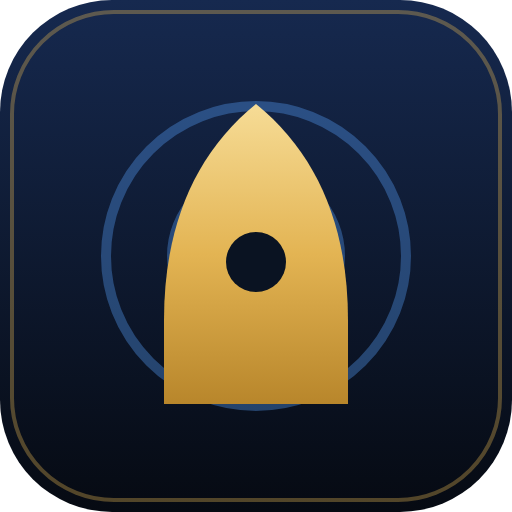
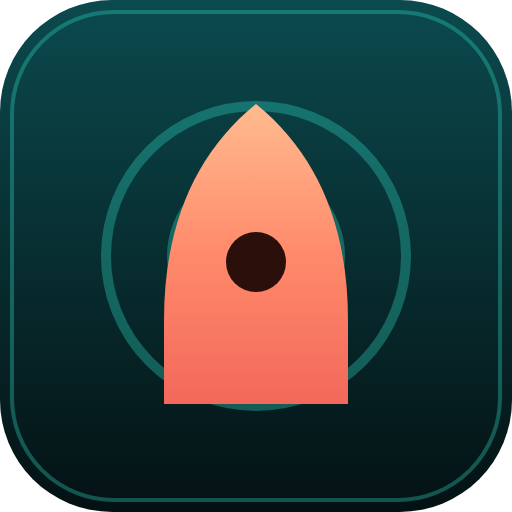
Tidewater palette; smooth rate of turn
- Palette: deep sea-teal canvas with complementary coral for actions,
  aqua breadcrumbs/skyhook marker; icons re-rendered
- Rate of turn: the readout and logged hdgRate were a single raw gyro
  sample (~16 ms), so vibration in a car or hull mount made them jump.
  Now low-pass filtered (default 0.5 s, configurable in Settings); the
  heading filter still integrates every raw sample. Raw rate stays in
  gyroRate. In simulation 2.0 deg/s rms vibration -> 0.26 deg/s.
- v0.3.0

Claude-Session: https://claude.ai/code/session_01GEVfYgxFGNJATBxX8JKbRs

diff --git a/css/app.css b/css/app.css
@@ -4,16 +4,16 @@
 
 /* ------------------------------------------------------------------ tokens */
 :root {
-  /* Brand: "Admiralty" — blue-black canvas, gold for intent (blue/gold are complementary).
-     Gold is dark-to-light; the gradient is the only place it appears in bulk. */
-  --brand-1: #b8862b; /* deep gold */
-  --brand-2: #e3b453; /* gold */
-  --brand-3: #f6dc96; /* champagne */
-  --on-brand: #0a1322; /* navy ink on gold (white fails contrast) */
-  --success: #3ddc97;
-  --warning: #ff9f43;
-  --danger: #ff5c6c;
-  --info: #5aa2ff;
+  /* Brand: "Tidewater" — deep sea-teal canvas with coral for intent. Teal and coral sit
+     opposite each other on the wheel; coral appears only where you act. */
+  --brand-1: #f2685a; /* coral */
+  --brand-2: #ff8a6b; /* salmon */
+  --brand-3: #ffbb8f; /* apricot */
+  --on-brand: #2a0f0b; /* dark ink on coral (white fails contrast) */
+  --success: #4ade80;
+  --warning: #facc15;
+  --danger: #ff3d6e;
+  --info: #38bdf8;
   --aurora: linear-gradient(110deg, var(--brand-1), var(--brand-2) 55%, var(--brand-3));
 
   --ease-emph: cubic-bezier(0.2, 0, 0, 1);
@@ -38,77 +38,77 @@
   --safe-b: env(safe-area-inset-bottom, 0px);
   --safe-t: env(safe-area-inset-top, 0px);
 
-  /* Dark "Deep Navy" (default) */
+  /* Dark "Deep Water" (default) */
   color-scheme: dark;
-  --canvas: #060a12;
-  --surface-1: #0b1220;
-  --surface-2: #111a2b;
-  --surface-3: #1a2539;
-  --glass: rgba(12, 20, 34, 0.72);
-  --glass-strong: rgba(15, 24, 40, 0.92);
+  --canvas: #041113;
+  --surface-1: #0a1a1d;
+  --surface-2: #0f2428;
+  --surface-3: #173236;
+  --glass: rgba(9, 27, 30, 0.72);
+  --glass-strong: rgba(12, 33, 37, 0.92);
   --hairline: rgba(255, 255, 255, 0.08);
-  --edge-hi: rgba(255, 236, 190, 0.18);
-  --text: #f2f0e9;
-  --text-2: #a8b2c6;
-  --text-3: #66738c;
-  --glow-1: rgba(31, 79, 191, 0.5);
-  --glow-2: rgba(18, 52, 128, 0.55);
-  --glow-3: rgba(200, 150, 46, 0.22);
-  --primary: #e3b453;
-  --grid: rgba(150, 170, 205, 0.13);
-  --vessel: #f2f0e9;
-  --trail: #5aa2ff;
-  --mark: #7cc4ff;
+  --edge-hi: rgba(200, 255, 245, 0.16);
+  --text: #eef6f4;
+  --text-2: #9cb9b6;
+  --text-3: #5e7d7a;
+  --glow-1: rgba(13, 148, 136, 0.45);
+  --glow-2: rgba(14, 94, 112, 0.55);
+  --glow-3: rgba(242, 104, 90, 0.2);
+  --primary: #ff8a6b;
+  --grid: rgba(156, 205, 200, 0.12);
+  --vessel: #eef6f4;
+  --trail: #2dd4bf;
+  --mark: #5eead4;
   --field: rgba(255, 255, 255, 0.05);
 }
 
 @media (prefers-color-scheme: light) {
   :root:not([data-theme='dark']) {
     color-scheme: light;
-    --canvas: #f3f5f9;
+    --canvas: #f1f7f6;
     --surface-1: #ffffff;
-    --surface-2: #e9eef6;
-    --surface-3: #dbe3ef;
-    --glass: rgba(255, 255, 255, 0.78);
+    --surface-2: #e3f0ee;
+    --surface-3: #d2e5e2;
+    --glass: rgba(255, 255, 255, 0.8);
     --glass-strong: rgba(255, 255, 255, 0.95);
-    --hairline: rgba(10, 19, 34, 0.09);
+    --hairline: rgba(6, 32, 35, 0.09);
     --edge-hi: rgba(255, 255, 255, 0.9);
-    --text: #0b1424;
-    --text-2: #4a5873;
-    --text-3: #8b96aa;
-    --glow-1: rgba(170, 196, 245, 0.6);
-    --glow-2: rgba(150, 180, 238, 0.55);
-    --glow-3: rgba(243, 220, 160, 0.6);
-    --primary: #8a5e0b;
-    --grid: rgba(74, 88, 115, 0.15);
-    --vessel: #0b1424;
-    --trail: #1f5fd1;
-    --mark: #1f5fd1;
-    --field: rgba(10, 19, 34, 0.04);
+    --text: #072226;
+    --text-2: #3f5e5d;
+    --text-3: #86a19f;
+    --glow-1: rgba(153, 227, 216, 0.6);
+    --glow-2: rgba(178, 220, 232, 0.6);
+    --glow-3: rgba(255, 205, 186, 0.6);
+    --primary: #c2412f;
+    --grid: rgba(63, 94, 93, 0.15);
+    --vessel: #072226;
+    --trail: #0f766e;
+    --mark: #0e7490;
+    --field: rgba(6, 32, 35, 0.04);
   }
 }
 :root[data-theme='light'] {
   color-scheme: light;
-  --canvas: #f3f5f9;
+  --canvas: #f1f7f6;
   --surface-1: #ffffff;
-  --surface-2: #e9eef6;
-  --surface-3: #dbe3ef;
-  --glass: rgba(255, 255, 255, 0.78);
+  --surface-2: #e3f0ee;
+  --surface-3: #d2e5e2;
+  --glass: rgba(255, 255, 255, 0.8);
   --glass-strong: rgba(255, 255, 255, 0.95);
-  --hairline: rgba(10, 19, 34, 0.09);
+  --hairline: rgba(6, 32, 35, 0.09);
   --edge-hi: rgba(255, 255, 255, 0.9);
-  --text: #0b1424;
-  --text-2: #4a5873;
-  --text-3: #8b96aa;
-  --glow-1: rgba(170, 196, 245, 0.6);
-  --glow-2: rgba(150, 180, 238, 0.55);
-  --glow-3: rgba(243, 220, 160, 0.6);
-  --primary: #8a5e0b;
-  --grid: rgba(74, 88, 115, 0.15);
-  --vessel: #0b1424;
-  --trail: #1f5fd1;
-  --mark: #1f5fd1;
-  --field: rgba(10, 19, 34, 0.04);
+  --text: #072226;
+  --text-2: #3f5e5d;
+  --text-3: #86a19f;
+  --glow-1: rgba(153, 227, 216, 0.6);
+  --glow-2: rgba(178, 220, 232, 0.6);
+  --glow-3: rgba(255, 205, 186, 0.6);
+  --primary: #c2412f;
+  --grid: rgba(63, 94, 93, 0.15);
+  --vessel: #072226;
+  --trail: #0f766e;
+  --mark: #0e7490;
+  --field: rgba(6, 32, 35, 0.04);
 }
 
 /* ------------------------------------------------------------------ base */

diff --git a/js/fusion.js b/js/fusion.js
@@ -30,6 +30,7 @@ export class Fusion extends EventTarget {
     this.compassT = 0;
     this.gyroT = 0;
     this.gyroRate = null; // last raw heading rate from the gyro, deg/s
+    this.rateLP = null; // low-pass filtered, bias-corrected rate of turn, deg/s
     this.headingSource = 'none'; // compass | cog | gyro | none
     this.iosAlphaOffset = null; // iOS: alpha is not north-referenced; offset from compass
     this.skyhook = null; // { lat, lon, x, y, t, acc }
@@ -82,7 +83,7 @@ export class Fusion extends EventTarget {
     if (!m.n || cog === null || !(fix.speed > DEV_MIN_SPEED) || !(fix.acc < 20)) return;
     if (fix.t - this.compassT > 1000) return;
     if (prev === null || Math.abs(wrap180(cog - prev)) > 5) return; // course changing
-    if (this.hkf.initialized && Math.abs(this.hkf.rate) > DEV_MAX_TURN) return;
+    if (this.rateLP !== null && Math.abs(this.rateLP) > DEV_MAX_TURN) return;
     const mag = wrap360((Math.atan2(m.s, m.c) * 180) / Math.PI);
     const offsets = this.settings.get('declination') + this.settings.get('headingOffset');
     this.devResidual = wrap180(cog - offsets - mag - this.dev.correction(mag));
@@ -136,9 +137,17 @@ export class Fusion extends EventTarget {
     let rate = headingRateFromGyro(m.rot, this.att.beta, this.att.gamma);
     if (rate === null) return;
     if (this.settings.get('invertGyro')) rate = -rate;
+    const dt = this.gyroT ? (m.t - this.gyroT) / 1000 : 0;
     this.gyroRate = rate;
     this.gyroT = m.t;
+    // The filter integrates every raw sample (integration averages vibration out). The rate
+    // of turn we report is low-passed: one raw sample at 60 Hz mostly shows engine/hull
+    // vibration, not the vessel turning.
     this.hkf.propagate(m.t, rate);
+    const corrected = rate - (this.hkf.initialized ? this.hkf.bias : 0);
+    const tau = Math.max(0.05, this.settings.get('rateSmoothing'));
+    if (this.rateLP === null || !(dt > 0) || dt > 1) this.rateLP = corrected;
+    else this.rateLP += (1 - Math.exp(-dt / tau)) * (corrected - this.rateLP);
   }
 
   _propagate(t) {
@@ -206,7 +215,7 @@ export class Fusion extends EventTarget {
       hdg,
       hdgMag: hdg === null ? null : wrap360(hdg - this.settings.get('declination')),
       hdgSigma: this.hkf.initialized ? this.hkf.sigma : null,
-      hdgRate: this.hkf.initialized ? this.hkf.rate : null,
+      hdgRate: !this.hkf.initialized ? null : t - this.gyroT < GYRO_STALE && this.rateLP !== null ? this.rateLP : this.hkf.rate,
       hdgSrc: this.hkf.initialized ? (t - this.compassT < COMPASS_STALE ? 'compass' : this.headingSource) : 'none',
       gyroBias: this.hkf.initialized ? this.hkf.bias : null,
       gyroRate: t - this.gyroT < GYRO_STALE ? this.gyroRate : null,

diff --git a/index.html b/index.html
@@ -5,7 +5,7 @@
     <meta name="viewport" content="width=device-width, initial-scale=1, maximum-scale=1, viewport-fit=cover" />
     <title>GNSS Log</title>
     <meta name="description" content="Vessel position and heading logger with skyhook station-keeping view." />
-    <meta name="theme-color" content="#060A12" />
+    <meta name="theme-color" content="#041113" />
     <link rel="manifest" href="manifest.webmanifest" />
     <link rel="icon" href="icons/icon.svg" type="image/svg+xml" />
     <link rel="icon" href="icons/icon-192.png" sizes="192x192" type="image/png" />
@@ -183,6 +183,10 @@
           <label class="row">
             <span>Compass noise <small>° 1σ for the filter</small></span>
             <input class="field num" type="number" min="1" max="45" step="0.5" data-setting="compassSigma" />
+          </label>
+          <label class="row">
+            <span>Turn rate smoothing <small>seconds; higher = steadier, slower</small></span>
+            <input class="field num" type="number" min="0.05" max="5" step="0.05" data-setting="rateSmoothing" />
           </label>
           <div class="row">
             <span>Invert gyro yaw <small>only if heading lags turns</small></span>

diff --git a/js/app.js b/js/app.js
@@ -11,7 +11,7 @@ import { Visualizer, fmtDist } from './visualizer.js';
 import { exportSession } from './export.js';
 import { LocalFrame, wrap180, wrap360, haversine } from './geo.js';
 
-const VERSION = '0.2.0';
+const VERSION = '0.3.0';
 window.GNSSLOG_VERSION = VERSION;
 
 const $ = (sel, root = document) => root.querySelector(sel);
@@ -817,7 +817,7 @@ function applyTheme() {
   if (t === 'light' || t === 'dark') document.documentElement.dataset.theme = t;
   else delete document.documentElement.dataset.theme;
   const dark = t === 'dark' || (t === 'system' && matchMedia('(prefers-color-scheme: dark)').matches);
-  $('meta[name="theme-color"]').content = dark ? '#060A12' : '#F3F5F9';
+  $('meta[name="theme-color"]').content = dark ? '#041113' : '#F1F7F6';
   viz.refreshTheme();
   pb.viz?.refreshTheme();
 }

diff --git a/js/settings.js b/js/settings.js
@@ -10,6 +10,7 @@ export const DEFAULTS = {
   declination: 0, // deg, East positive: true = magnetic + declination
   compassSigma: 6, // deg, 1-sigma magnetometer noise used by the heading filter
   invertGyro: false,
+  rateSmoothing: 0.5, // s, time constant of the rate-of-turn low-pass filter
   autoDeviation: true, // learn compass deviation (magnets, steel) from GNSS course
   orientUp: 'north', // north | heading (visualiser)
   trailMinutes: 10,

diff --git a/sw.js b/sw.js
@@ -1,7 +1,7 @@
 // Service worker: offline app shell (cache-first, versioned) + runtime cache for fonts.
 // Uploads (POST) and any other cross-origin request are never intercepted.
 
-const VERSION = 'gnsslog-v0.2.0';
+const VERSION = 'gnsslog-v0.3.0';
 const SHELL = [
   './',
   'index.html',

diff --git a/README.md b/README.md
@@ -6,19 +6,19 @@ case on the device, uploads it to your cloud endpoint whenever there is a connec
 top-down plot with breadcrumbs and a **Skyhook** station-keeping view.
 
 UI follows the "Aurora Ink" design rules (dark/light/system themes, glass surfaces, gradient
-only on the primary actions) remixed to an **"Admiralty" blue-black and gold** palette: navy
-canvas and glows, with complementary gold reserved for the things you act on (record, selected
-tab, switches, the vessel). The skyhook marker and breadcrumbs use blue so they read against the
-gold vessel.
+only on the primary actions) remixed to a **"Tidewater" sea-teal and coral** palette: teal and coral are complementary, so
+the deep-teal canvas stays calm while coral marks the things you act on (record, selected tab,
+switches, the vessel). Breadcrumbs and the skyhook marker are aqua so they read against the
+coral vessel.
 
 | Token | Dark | Light |
 |---|---|---|
-| Canvas | `#060A12` | `#F3F5F9` |
-| Surfaces | `#0B1220` / `#111A2B` / `#1A2539` | `#FFFFFF` / `#E9EEF6` / `#DBE3EF` |
-| Text | `#F2F0E9` / `#A8B2C6` / `#66738C` | `#0B1424` / `#4A5873` / `#8B96AA` |
-| Gold gradient | `#B8862B` → `#E3B453` → `#F6DC96` (navy ink `#0A1322` on top) | same |
-| Blue accents (trail, skyhook) | `#5AA2FF` / `#7CC4FF` | `#1F5FD1` |
-| Status | success `#3DDC97`, warning `#FF9F43`, error `#FF5C6C` | same |
+| Canvas | `#041113` | `#F1F7F6` |
+| Surfaces | `#0A1A1D` / `#0F2428` / `#173236` | `#FFFFFF` / `#E3F0EE` / `#D2E5E2` |
+| Text | `#EEF6F4` / `#9CB9B6` / `#5E7D7A` | `#072226` / `#3F5E5D` / `#86A19F` |
+| Coral gradient | `#F2685A` → `#FF8A6B` → `#FFBB8F` (ink `#2A0F0B` on top) | same; accent text `#C2412F` |
+| Aqua (trail, skyhook) | `#2DD4BF` / `#5EEAD4` | `#0F766E` / `#0E7490` |
+| Status | success `#4ADE80`, warning `#FACC15`, error `#FF3D6E` | same |
 
 All colours are tokens at the top of `css/app.css`; the canvas plot reads them at runtime.
 
@@ -126,7 +126,7 @@ and serves `GET /sessions` and `GET /sessions/<id>.csv`. Set `RECEIVER_TOKEN` to
 | `vx`, `vy` | Fused velocity East/North (m/s) |
 | `sog`, `cog` | Fused speed (m/s) and course over ground (°T) |
 | `hdg`, `hdgMag` | Filtered heading, true and magnetic (°) |
-| `hdgRate` | Bias-corrected rate of turn (°/s, + = to starboard) |
+| `hdgRate` | Bias-corrected rate of turn, low-pass filtered (°/s, + = to starboard; time constant in Settings) |
 | `hdgSigma`, `hdgSrc` | Heading 1σ (°) and source (`compass`, `cog`, `none`) |
 | `gyroRate`, `gyroBias` | Raw gyro yaw rate and estimated bias (°/s) |
 | `compass` | Raw magnetometer heading of the mount (°M) |
